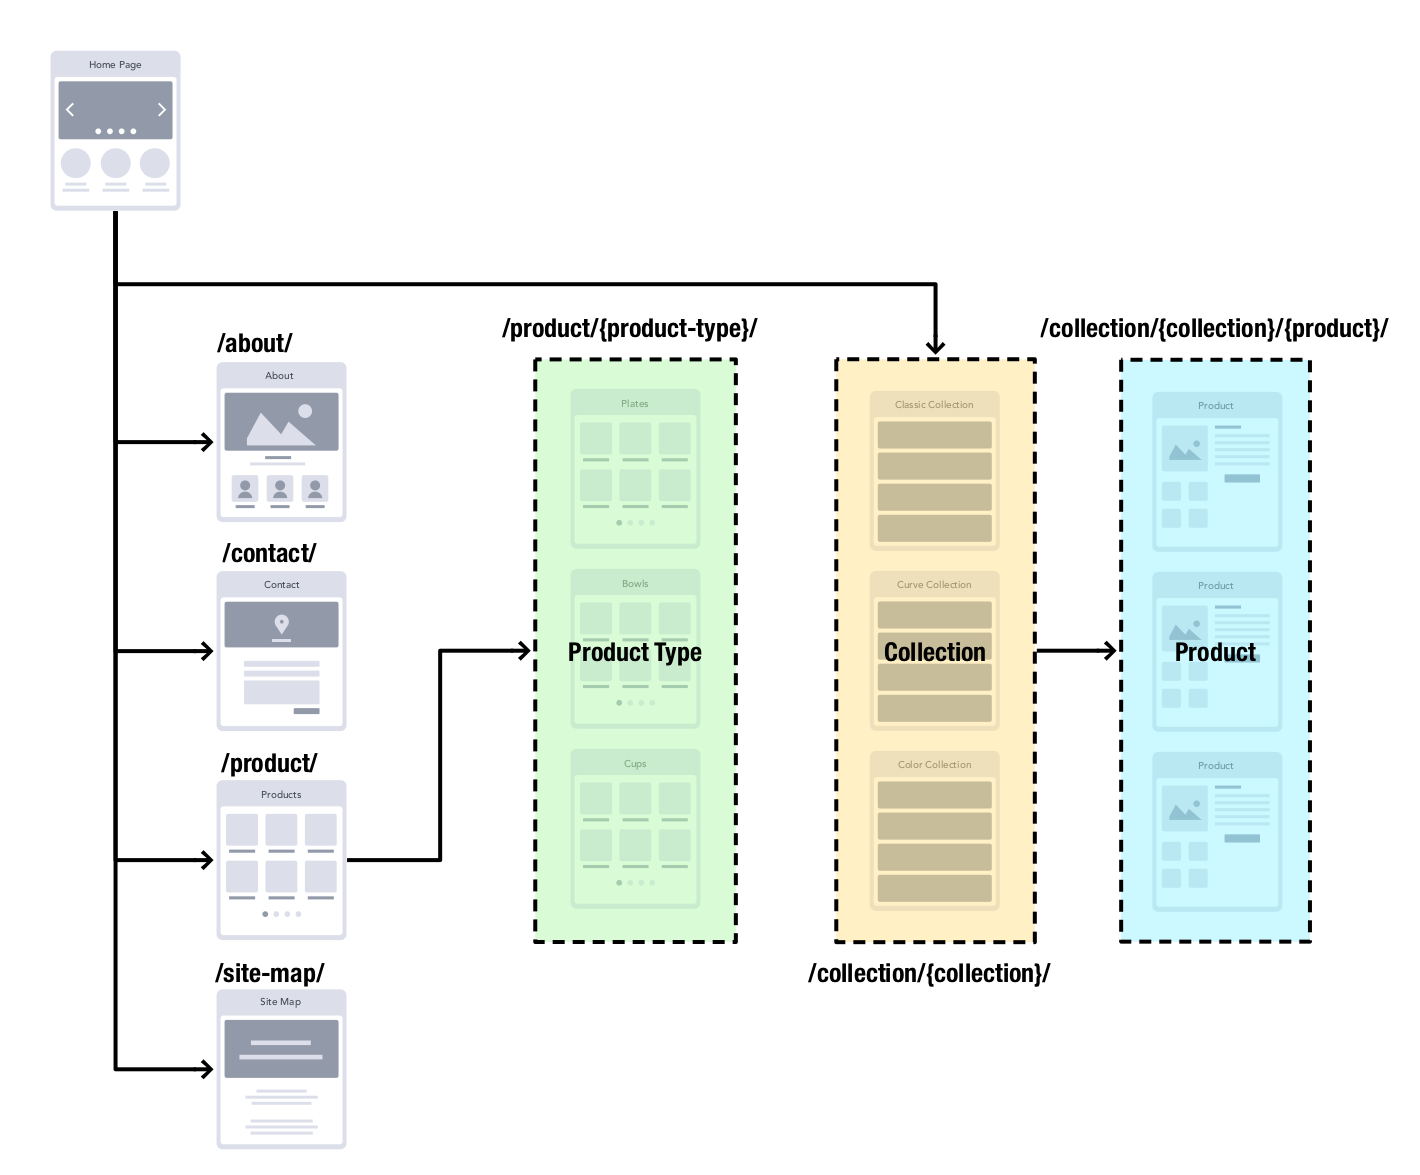
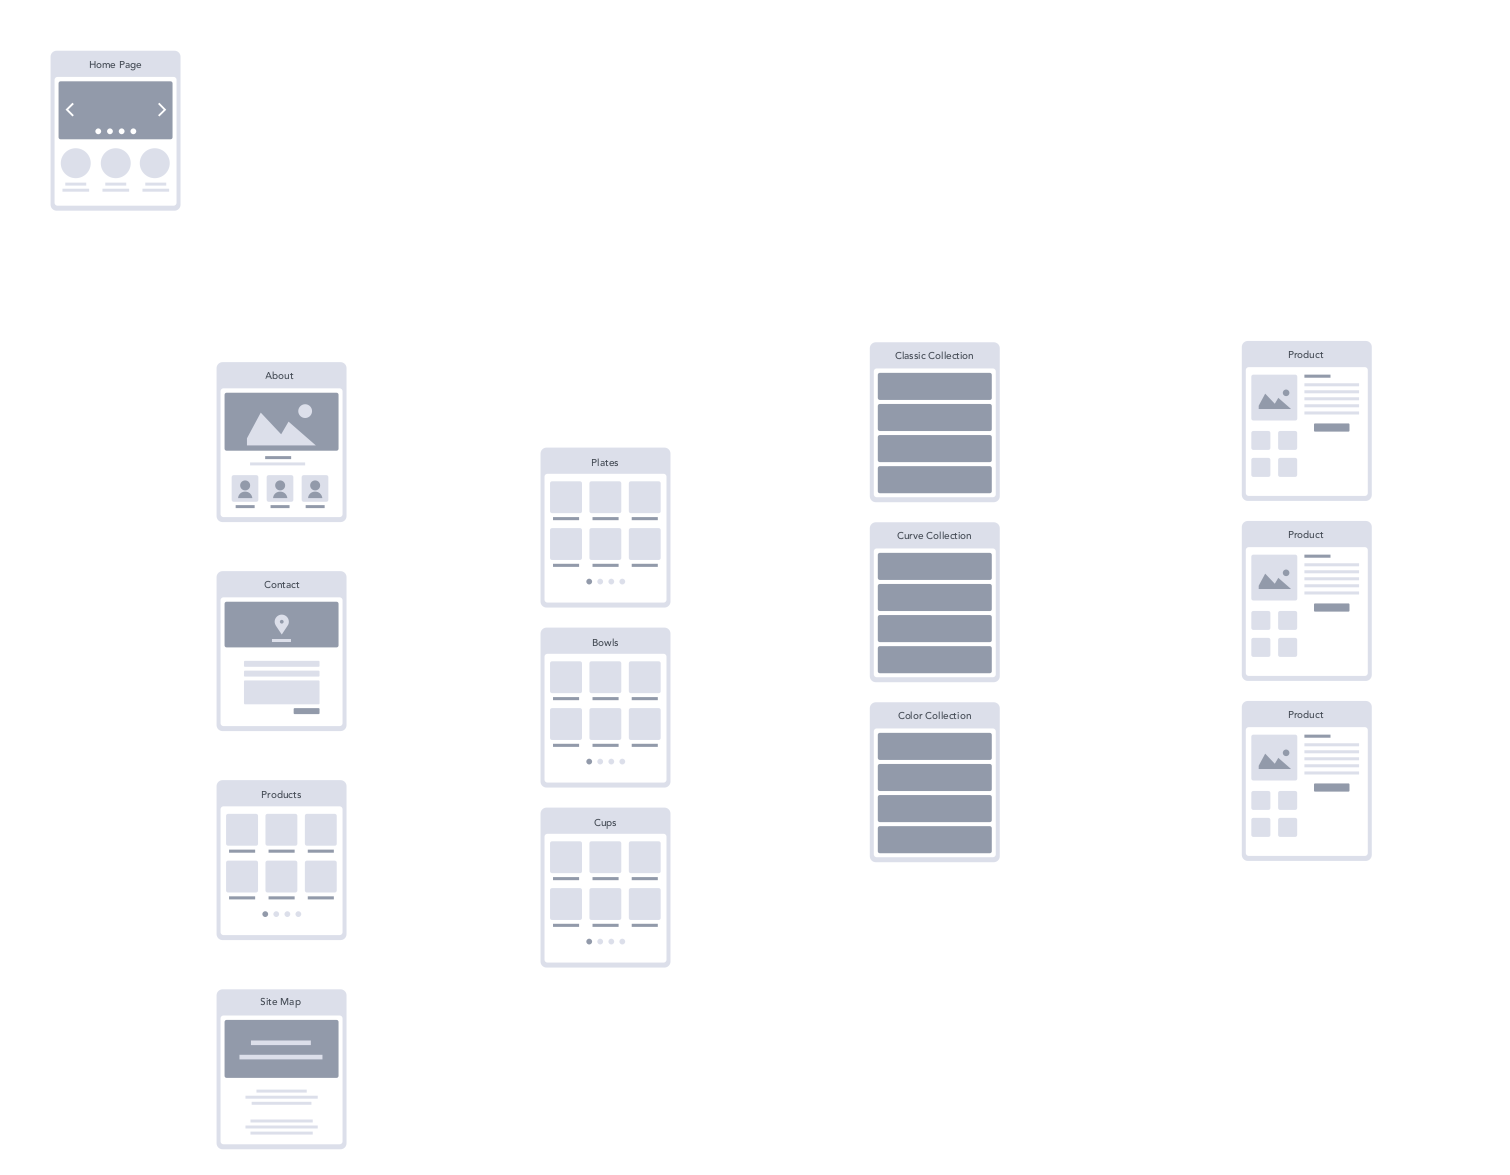
swapped out project image

diff --git a/css/projects.scss b/css/projects.scss
@@ -30,16 +30,6 @@ $img-max-width: 1440px;
             border-radius: $s-border-radius;
             overflow: hidden;
         }
-
-        &:first-child {
-            flex: 0 0 100%;
-            max-width: $img-max-width;
-            margin-bottom: 3rem;
-
-            > a {
-                background-color: $brand-green;
-            }
-        }
     }
 
     &__img {
@@ -50,16 +40,15 @@ $img-max-width: 1440px;
     }
 
     &__title {
+        padding: .6rem .8rem;
         h2,h4,.date {
-            padding: 0 1.5rem;
+            margin: 0;
         }
         h4 {
-            margin-top: -1.5rem;
             text-transform: capitalize;
         }
         .date {
             float: right;
-            margin-top: -1.5rem;
         }
     }
 

diff --git a/_projects/2019-02-01-hostandporter.md b/_projects/2019-02-01-hostandporter.md
@@ -1,12 +1,12 @@
 ---
-title: Host & Porter
+title: Host & Porter Product Catalog
 category: development
 project_url: http://hostandporter.com/
-image: /img/projects/hostandporter-site.png
-og-image: /img/projects/hostandporter-site.png
+image: /img/projects/hostandporter-site.jpg
+og-image: /img/projects/hostandporter-site.jpg
 read-time: 1.5 min read
 # excerpt:
-seo-title: Host & Porter WordPress Project
+seo-title: Host & Porter Product Catalog WordPress Project
 tags:
     - WordPress
     - PHP
@@ -18,7 +18,7 @@ I was hired by [Caava design](https://caavadesign.com/) to build a product catal
 ### WordPress Development
 
 The client selected WordPress as the platform of choice. **The product catalog contained 450 SKU's, 26 collections (products grouped by design) and 6 categories.** The project had the size and complexity of an e-commerce store without the cart. I created a custom WordPress plugin that would allow for the management of the catalog within the admin UI.
-<img class="full-width" style="max-width: 1420px" width="400" height="400" src="{{ '/img/projects/hostandporter-site-map-alt.png' | absolute_url }}" alt="project sitemap">
+<img class="full-width" style="max-width: 1420px" width="400" height="400" src="{{ '/img/projects/hostandporter-site-map.png' | absolute_url }}" alt="project sitemap">
 
 ### Plugin Features
 

diff --git a/_projects/_2017-11-01-tcg-analytics.md b/_projects/_2017-11-01-tcg-analytics.md
@@ -2,8 +2,8 @@
 title: TCG Google Analytics
 category: analytics
 # project_url:
-image: /img/projects/tcg-analytics.png
-og-image: /img/projects/tcg-analytics.png
+image: /img/projects/tcg-analytics.jpg
+og-image: /img/projects/tcg-analytics.jpg
 excerpt: While employed at TCG I took an interest in the companies Google Analytics account. I was sharing my findings but was not getting much buy-in from the team on the validity of the data. I spoke to the CTO about wanting to fix the GA setup, and a few weeks later I was given the challenge and resources to do it.
 seo-title: TCG Google Analytics Revamp Project
 tags:

diff --git a/_projects/2017-01-01-crimewire.md b/_projects/2017-01-01-crimewire.md
@@ -2,8 +2,8 @@
 title: Crimewire Blog
 category: development
 project_url: https://www.instantcheckmate.com/crimewire/
-image: /img/projects/crimewire-blog.png
-og-image: /img/projects/crimewire-blog.png
+image: /img/projects/crimewire-blog.jpg
+og-image: /img/projects/crimewire-blog.jpg
 excerpt: I got tasked with moving the Crimewire blog off of WordPress, and onto Laravel + Voyager.
 seo-title: Crimewire Blog Laravel Project
 read-time: 1.5 min read
